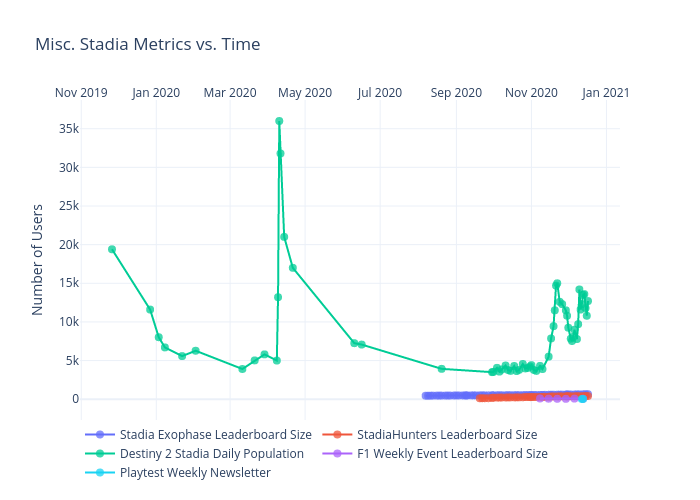
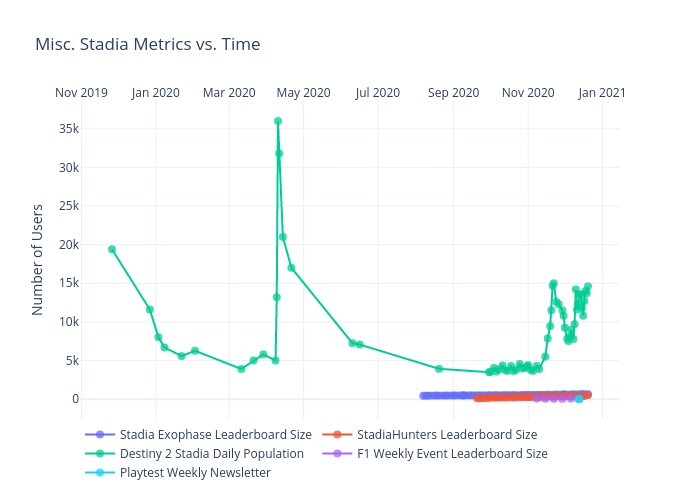
Add files via upload

diff --git a/misc/figure.js b/misc/figure.js
@@ -106,6 +106,8 @@ var figure = {
                 "2020-12-15",
                 "2020-12-16",
                 "2020-12-17",
+                "2020-12-18",
+                "2020-12-19",
                 "2020-12-20",
                 "2020-12-22",
                 "2020-12-24",
@@ -209,7 +211,10 @@ var figure = {
                 "",
                 "641",
                 "",
-                "649"
+                "649",
+                "",
+                "",
+                "655"
             ],
             "marker": {
                 "size": 8,
@@ -325,6 +330,8 @@ var figure = {
                 "2020-12-15",
                 "2020-12-16",
                 "2020-12-17",
+                "2020-12-18",
+                "2020-12-19",
                 "2020-12-20",
                 "2020-12-22",
                 "2020-12-24",
@@ -428,7 +435,10 @@ var figure = {
                 "",
                 "409",
                 "",
-                "412"
+                "412",
+                "",
+                "",
+                "517"
             ],
             "marker": {
                 "size": 8,
@@ -544,6 +554,8 @@ var figure = {
                 "2020-12-15",
                 "2020-12-16",
                 "2020-12-17",
+                "2020-12-18",
+                "2020-12-19",
                 "2020-12-20",
                 "2020-12-22",
                 "2020-12-24",
@@ -647,7 +659,10 @@ var figure = {
                 "13600",
                 "11800",
                 "10800",
-                "12700"
+                "12700",
+                "14000",
+                "13700",
+                "14600"
             ],
             "marker": {
                 "size": 8,
@@ -763,6 +778,8 @@ var figure = {
                 "2020-12-15",
                 "2020-12-16",
                 "2020-12-17",
+                "2020-12-18",
+                "2020-12-19",
                 "2020-12-20",
                 "2020-12-22",
                 "2020-12-24",
@@ -978,6 +995,8 @@ var figure = {
                 "2020-12-15",
                 "2020-12-16",
                 "2020-12-17",
+                "2020-12-18",
+                "2020-12-19",
                 "2020-12-20",
                 "2020-12-22",
                 "2020-12-24",
@@ -1095,8 +1114,8 @@ var figure = {
             "side": "top",
             "type": "date",
             "range": [
-                "2019-11-01 17:56:21.5389",
-                "2021-01-10 06:03:38.4611"
+                "2019-11-01 13:25:37.9849",
+                "2021-01-13 10:34:22.0151"
             ],
             "title": {
                 "text": ""
